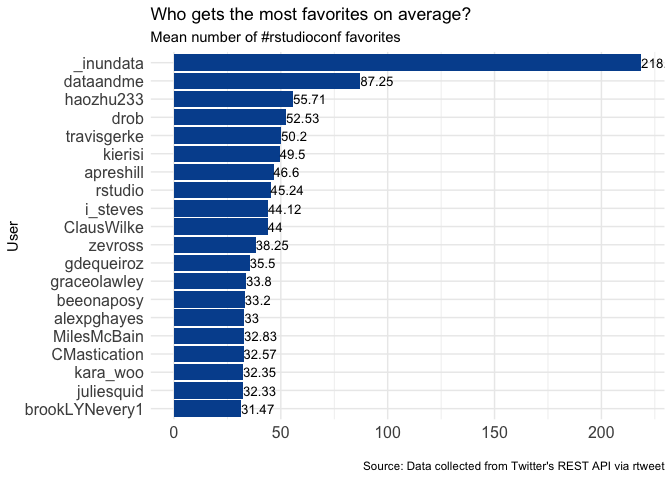
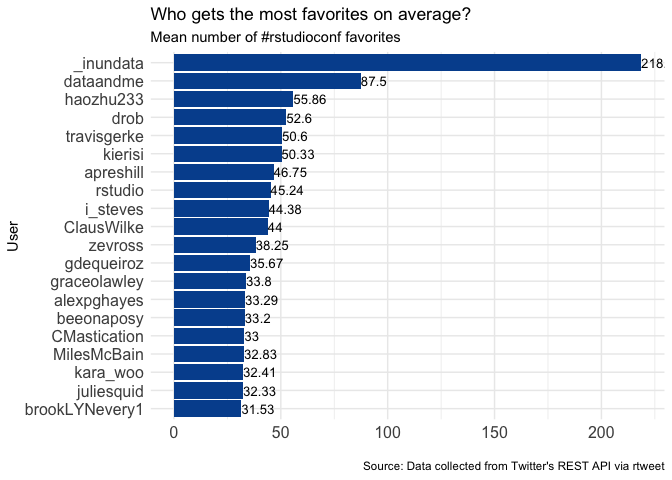
new r studio data

diff --git a/dataviz/rtweets_rstudioconf.md b/dataviz/rtweets_rstudioconf.md
@@ -1,6 +1,6 @@
 ### Basic summary
 
-There were a total of **3049** tweets with the \#rstudioconf hashtag.
+There were a total of **3052** tweets with the \#rstudioconf hashtag.
 These tweets were authored by **603** different particpants.
 
 ![](rtweets_rstudioconf_figs/topusers-1.png)
@@ -9,121 +9,7 @@ These tweets were authored by **603** different particpants.
 
 ### The 5 most favorited tweets
 
-<table>
-<thead>
-<tr class="header">
-<th style="text-align: left;">screen_name</th>
-<th style="text-align: left;">text</th>
-<th style="text-align: right;">favorite_count</th>
-</tr>
-</thead>
-<tbody>
-<tr class="odd">
-<td style="text-align: left;">allimoberger</td>
-<td style="text-align: left;">“You shouldn’t feel ashamed about your code - if it solves the problem, it’s perfect just the way it is. But also, it could always be better.” <span class="citation" data-cites="hadleywickham">@hadleywickham</span> #rstudioconf</td>
-<td style="text-align: right;">478</td>
-</tr>
-<tr class="even">
-<td style="text-align: left;">AmeliaMN</td>
-<td style="text-align: left;">The slides for my #rstudioconf talk, Working with Categorical Data in R without Losing your Mind, are available at</td>
-<td style="text-align: right;"></td>
-</tr>
-<tr class="odd">
-<td style="text-align: left;"><a href="https://t.co/AeS" class="uri">https://t.co/AeS</a></td>
-<td style="text-align: left;">QZJ74YP</td>
-<td style="text-align: right;"></td>
-</tr>
-<tr class="even">
-<td style="text-align: left;">and the paper I’</td>
-<td style="text-align: left;">m plugging is at</td>
-<td style="text-align: right;"></td>
-</tr>
-<tr class="odd">
-<td style="text-align: left;"><a href="https://t.co/kfK" class="uri">https://t.co/kfK</a></td>
-<td style="text-align: left;">gPrneQB <a href="https://t.co/RUYabPTGIH" class="uri">https://t.co/RUYabPTGIH</a> 410</td>
-<td style="text-align: right;"></td>
-</tr>
-<tr class="even">
-<td style="text-align: left;">allimoberger</td>
-<td style="text-align: left;">“If you’re ever unsure about how to pronounce a function, just say it with utmost confidence, and make other people doubt the way they say it.” <span class="citation" data-cites="hadleywickham">@hadleywickham</span> #rstudioconf</td>
-<td style="text-align: right;">365</td>
-</tr>
-<tr class="odd">
-<td style="text-align: left;">earowang</td>
-<td style="text-align: left;">Thrilled to learn #rstats tsibble has been selected as the winner of the 2019 Chambers Award on my way to Austin. My upcoming #rstudioconf talk will showcase rolling forecast with #gganimate and more. Pls come join me at 4pm on Thurs for Melt the 🕐: tidy time series analysis. <a href="https://t.co/jqar7jkk4X" class="uri">https://t.co/jqar7jkk4X</a></td>
-<td style="text-align: right;">359</td>
-</tr>
-<tr class="even">
-<td style="text-align: left;">hadleywickham</td>
-<td style="text-align: left;">dbplyr 1.3.0 is out now: <a href="https://t.co/oZjKCEwYlI" class="uri">https://t.co/oZjKCEwYlI</a> — includes a bunch of minor fixes, most importantly for dplyr 0.8.0 compatibility. I’ll be working on another release after #rstudioconf #rstats</td>
-<td style="text-align: right;">338</td>
-</tr>
-</tbody>
-</table>
-
 ### The 5 most retweeted tweets
-
-<table>
-<thead>
-<tr class="header">
-<th style="text-align: left;">screen_name</th>
-<th style="text-align: left;">text</th>
-<th style="text-align: right;">retweet_count</th>
-</tr>
-</thead>
-<tbody>
-<tr class="odd">
-<td style="text-align: left;">AmeliaMN</td>
-<td style="text-align: left;">The slides for my #rstudioconf talk, Working with Categorical Data in R without Losing your Mind, are available at</td>
-<td style="text-align: right;"></td>
-</tr>
-<tr class="even">
-<td style="text-align: left;"><a href="https://t.co/AeS" class="uri">https://t.co/AeS</a></td>
-<td style="text-align: left;">QZJ74YP</td>
-<td style="text-align: right;"></td>
-</tr>
-<tr class="odd">
-<td style="text-align: left;">and the paper I’</td>
-<td style="text-align: left;">m plugging is at</td>
-<td style="text-align: right;"></td>
-</tr>
-<tr class="even">
-<td style="text-align: left;"><a href="https://t.co/kfK" class="uri">https://t.co/kfK</a></td>
-<td style="text-align: left;">gPrneQB <a href="https://t.co/RUYabPTGIH" class="uri">https://t.co/RUYabPTGIH</a> 146</td>
-<td style="text-align: right;"></td>
-</tr>
-<tr class="odd">
-<td style="text-align: left;">allimoberger</td>
-<td style="text-align: left;">“You shouldn’t feel ashamed about your code - if it solves the problem, it’s perfect just the way it is. But also, it could always be better.” <span class="citation" data-cites="hadleywickham">@hadleywickham</span> #rstudioconf</td>
-<td style="text-align: right;">130</td>
-</tr>
-<tr class="even">
-<td style="text-align: left;">hadleywickham</td>
-<td style="text-align: left;">dbplyr 1.3.0 is out now: <a href="https://t.co/oZjKCEwYlI" class="uri">https://t.co/oZjKCEwYlI</a> — includes a bunch of minor fixes, most importantly for dplyr 0.8.0 compatibility. I’ll be working on another release after #rstudioconf #rstats</td>
-<td style="text-align: right;">107</td>
-</tr>
-<tr class="odd">
-<td style="text-align: left;">_inundata</td>
-<td style="text-align: left;">Slides from my #rstudioconf talk on How To Make Your Data Analysis Notebooks More Reproducible. <a href="https://t.co/BUWLdBwlEh" class="uri">https://t.co/BUWLdBwlEh</a></td>
-<td style="text-align: right;">97</td>
-</tr>
-<tr class="even">
-<td style="text-align: left;">dataandme</td>
-<td style="text-align: left;">💖 cuz it came up in big data w/ R @ #rstudioconf today…</td>
-<td style="text-align: right;"></td>
-</tr>
-<tr class="odd">
-<td style="text-align: left;">&quot;Exploring corre</td>
-<td style="text-align: left;">lations in R with corrr&quot; 👨⚕ <span class="citation" data-cites="drsimonj">@drsimonj</span></td>
-<td style="text-align: right;"></td>
-</tr>
-<tr class="even">
-<td style="text-align: left;"><a href="https://t.co/mFZ" class="uri">https://t.co/mFZ</a></td>
-<td style="text-align: left;">voSL4wp #rstats <a href="https://t.co/UhPVqdkV4p" class="uri">https://t.co/UhPVqdkV4p</a> 87</td>
-<td style="text-align: right;"></td>
-</tr>
-</tbody>
-</table>
 
 ### Which tweeters had the highest impact?
 
@@ -134,7 +20,7 @@ These tweets were authored by **603** different particpants.
 ### Acknowledgments
 
 My [source
-code](https://github.com/raynamharris/cefp2019/blob/master/dataviz/rtweets_rstudioconf.md)
+code](https://github.com/raynamharris/cefp2019/blob/master/dataviz/rtweets_rstudioconf.Rmd)
 was adapted from François Michonneau’s
 [code](https://github.com/fmichonneau/2018-carpentrycon-tweets/blob/master/index.Rmd)
 that he used to create this [blog post about twitter statistics from
